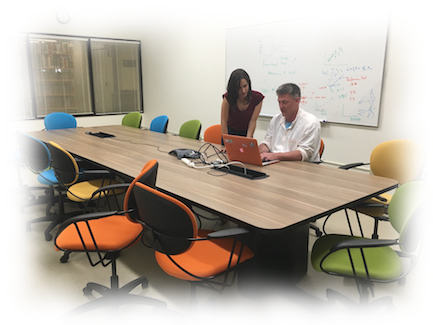
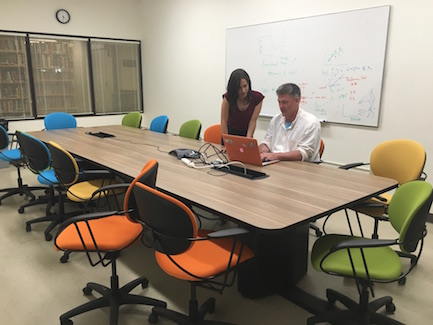
Tweak images

diff --git a/theme/templates/home.html b/theme/templates/home.html
@@ -95,7 +95,7 @@
 	  <div class="col-lg-3" style="margin-top:50px">
           <img src="{{ SITEURL }}/images/DSI_pics/office_hours_in_conference_room_small.jpg"
           style="padding-top: 0px;
-          padding-bottom: 0px" class="img-responsive">
+          padding-bottom: 0px" class="img-responsive img-thumbnail">
 	  </div>
 	  <div class='col-lg-2'>
           </div>
@@ -114,8 +114,8 @@
           </a>
 	  </div>
 	  <div class="col-lg-3" style="margin-top:50px">
-          <img src="{{ SITEURL }}/images/DSI_pics/IMG_4202_small.jpg"
-          class="img-responsive">
+          <img src="{{ SITEURL }}/images/DSI_pics/Ken_and_Ben_hacking_small.jpg"
+          class="img-responsive img-thumbnail">
 	  </div>
 	  <div class='col-lg-2'>
           </div>

diff --git a/theme/templates/base.html b/theme/templates/base.html
@@ -127,9 +127,6 @@
               title="{{ SITENAME }} {{ category }} ATOM Feed"/>
     {% endif %}
 
-    <!-- Google Font -->
-    <link href="https://fonts.googleapis.com/css?family=Roboto:300" rel="stylesheet" type='text/css'
-    />
 </head>
 <body>
 
